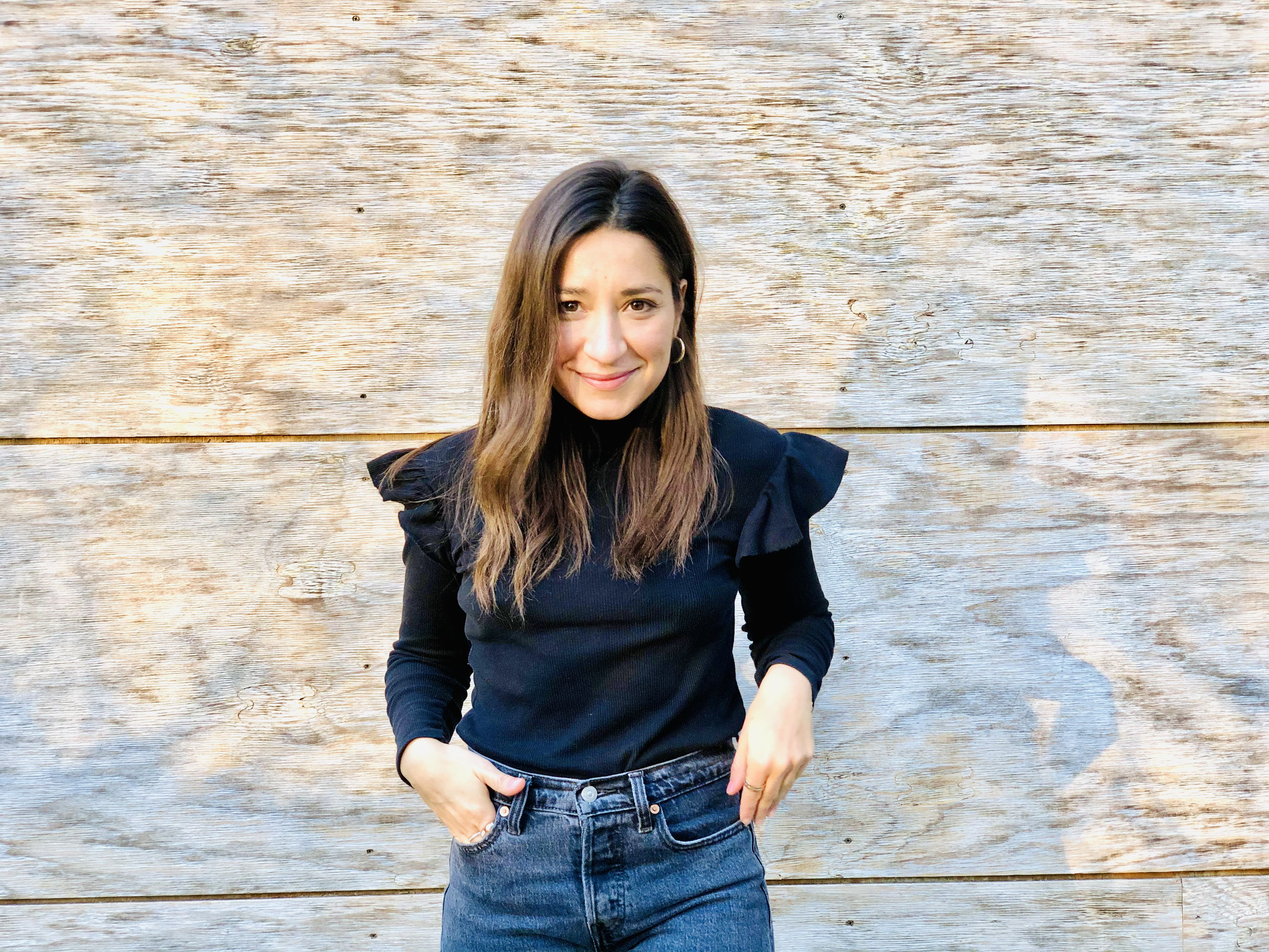
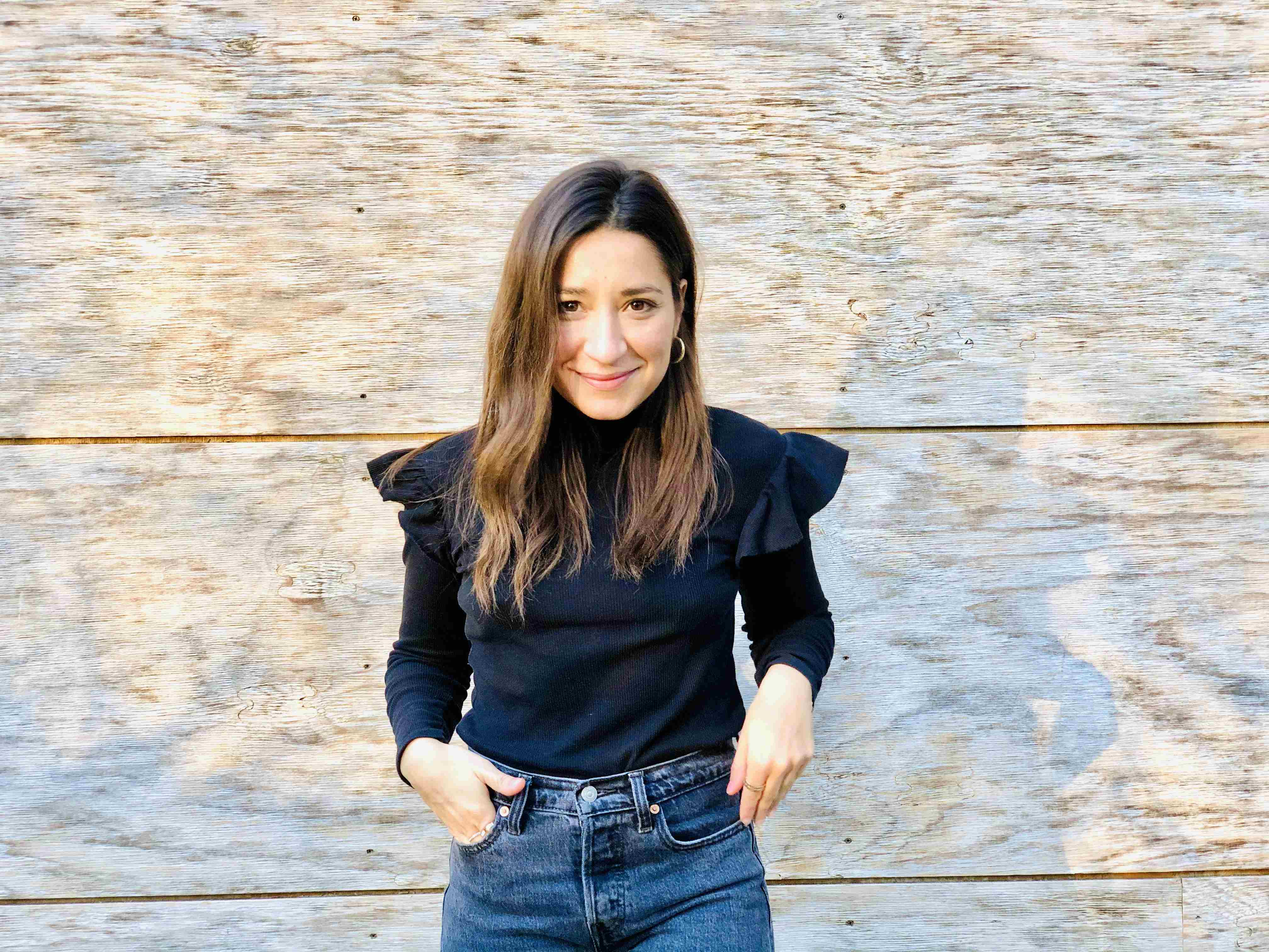
optimize images

diff --git a/index.html b/index.html
@@ -41,7 +41,7 @@
             <li id="home" class="menu-item"><i class="ion-home"></i></li>
         </ul>
     </div>
-    <section class="home" style="background: url(images/bg/valeria_perez_digitalmanager.JPG); background-size: cover">
+    <section class="home" style="background: url(images/bg/valeria_perez_digitalmanager.jpg); background-size: cover">
         <div class="overlay opacity3"></div>
         <div class="container">
             <div class="name-block reverse">
